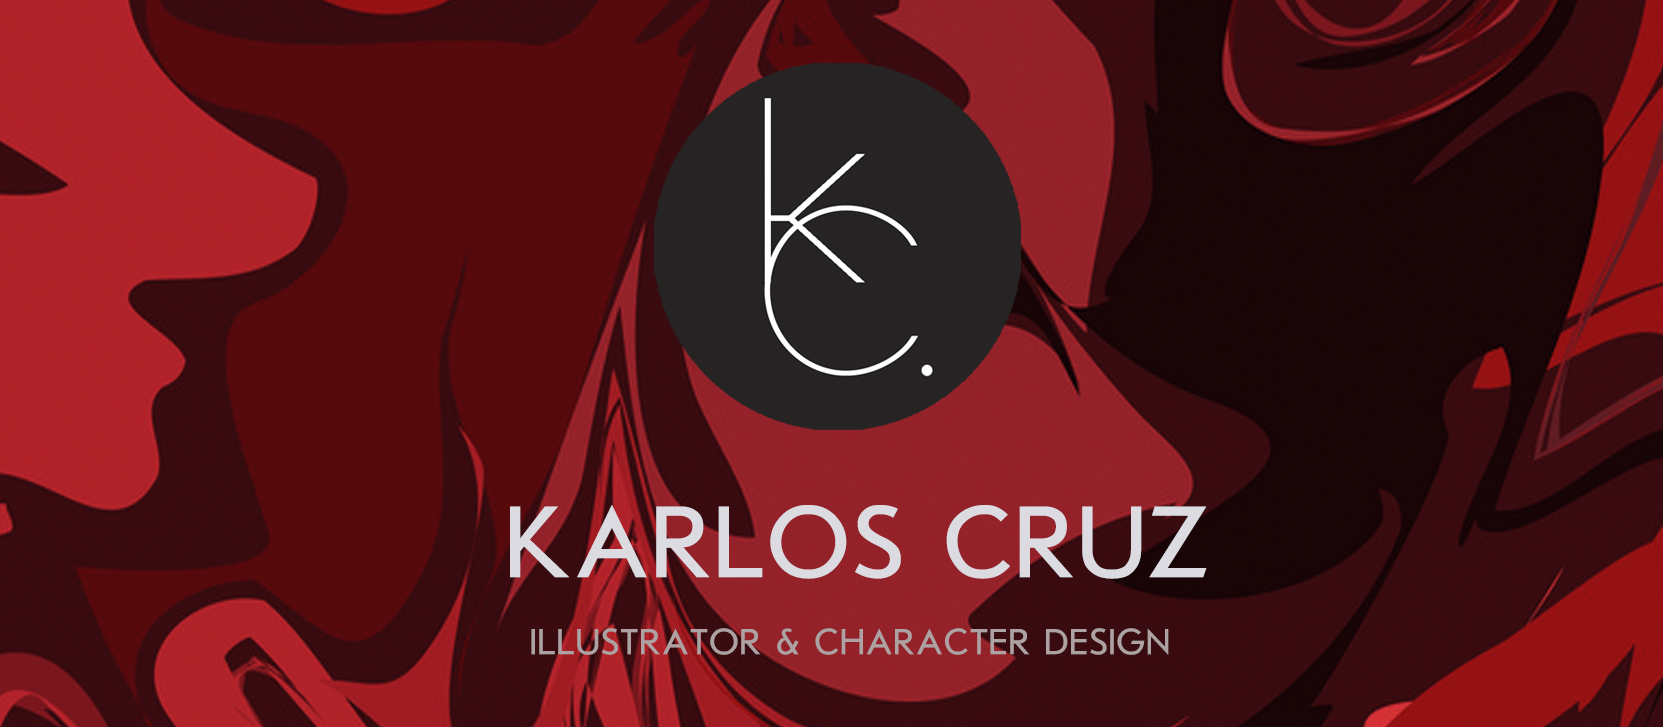
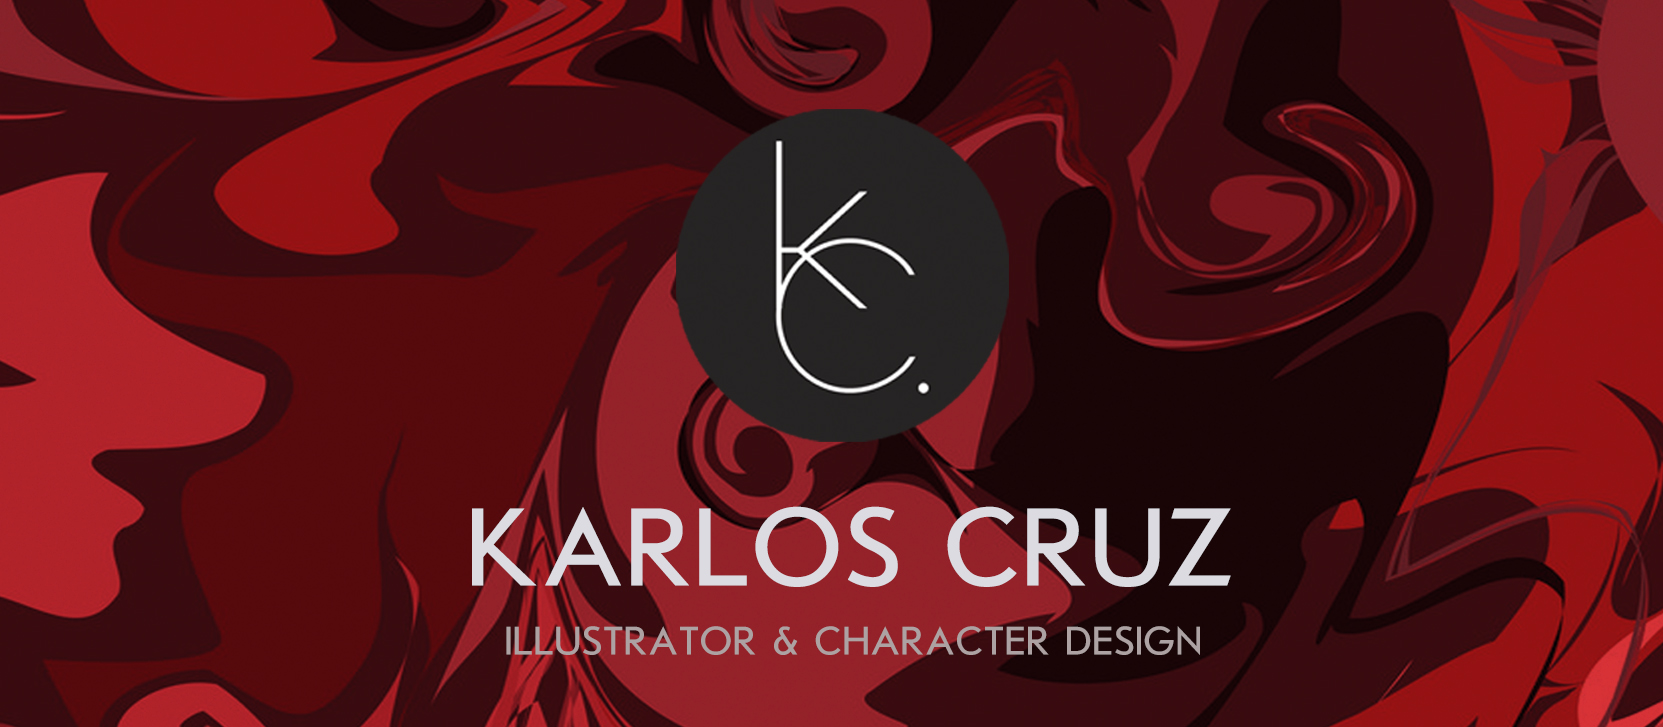
PV2 + FIX

diff --git a/views/Karlos/karlos_portafolio.html b/views/Karlos/karlos_portafolio.html
@@ -18,7 +18,7 @@
 			height: 30px;
 			border:none;
 			text-indent: 100%;
-			background: url("../../img/c1.png") no-repeat: 0px 0px;
+			background: url("../../img/c1.jpg") no-repeat: 0px 0px;
 		}
 	</style>
 </head>
@@ -30,7 +30,8 @@
 				<img src="../../img/karlos_img/logo.png" class="logo-fluid">
 			    </div>
 			</a>
-			<a class="portafolio1 disabled" href="#">Portafolio Personal</a>
+
+			<a class="portafolio1" href="#"> Portafolio Personal <span class="sr-only">(current)</span></a>
 
 			<button class="navbar-toggler" type="button" 
 			data-toggle="collapse" 
@@ -43,10 +44,7 @@
 			<div class="collapse navbar-collapse float-right" id="navbarNav">
 			<ul class="navbar-nav ml-auto">
 				  <li class="nav-item active">
-				    <a class="nav-link" href="#"> <span class="sr-only">(current)</span></a>
-				  </li>
-				  <li class="nav-item">
-				    <a class="nav-link" href="#sec1">Inicio</a>
+				    <a class="nav-link" href="s1">Inicio</a>
 				  </li>
 				  <li class="nav-item">
 				    <a class="nav-link" href="#">Perfil</a>
@@ -72,6 +70,37 @@
 				</div>
 			</nav>
 			</header>
+
+		<section>
+			<article name=carousel>
+				<div id="carouselExampleIndicators" class="carousel slide" data-ride="carousel">
+					<ol class="carousel-indicators">
+						<li data-target="#carouselExampleIndicators" data-slide-to="1" ></li>
+						<li data-target="#carouselExampleIndicators" data-slide-to="0" class="active"></li>
+						<li data-target="#carouselExampleIndicators" data-slide-to="2"></li>
+					</ol>
+					<div class="carousel-inner">
+						<div class="carousel-item active">
+							<img class="d-block w-100" src="../../img/karlos_img/c2.jpg" alt="First slide">
+						</div>
+						<div class="carousel-item">
+							<img class="d-block w-100" src="../../img/karlos_img/c1.jpg" alt="Second slide">
+						</div>
+						<div class="carousel-item">
+							<img class="d-block w-100" src="../../img/karlos_img/c3.jpg" alt="Third slide">
+						</div>
+					</div>
+					<a class="carousel-control-prev" href="#carouselExampleIndicators" role="button" data-slide="prev">
+						<span class="carousel-control-prev-icon" aria-hidden="true"></span>
+						<span class="sr-only">Previous</span>
+					</a>
+					<a class="carousel-control-next" href="#carouselExampleIndicators" role="button" data-slide="next">
+						<span class="carousel-control-next-icon" aria-hidden="true"></span>
+						<span class="sr-only">Next</span>
+					</a>
+				</div>
+			</article>
+		</section>
 
 </body>
 </html>

diff --git a/css/karlos/Style_porta.css b/css/karlos/Style_porta.css
@@ -15,3 +15,12 @@
 	color: white;
 
 }
+
+.navbar-nav>li:hover{
+    background: #dc1822;
+}
+
+.nav-item1{
+	background-color: #aa1018 !important;
+	margin-right: %;
+	}
